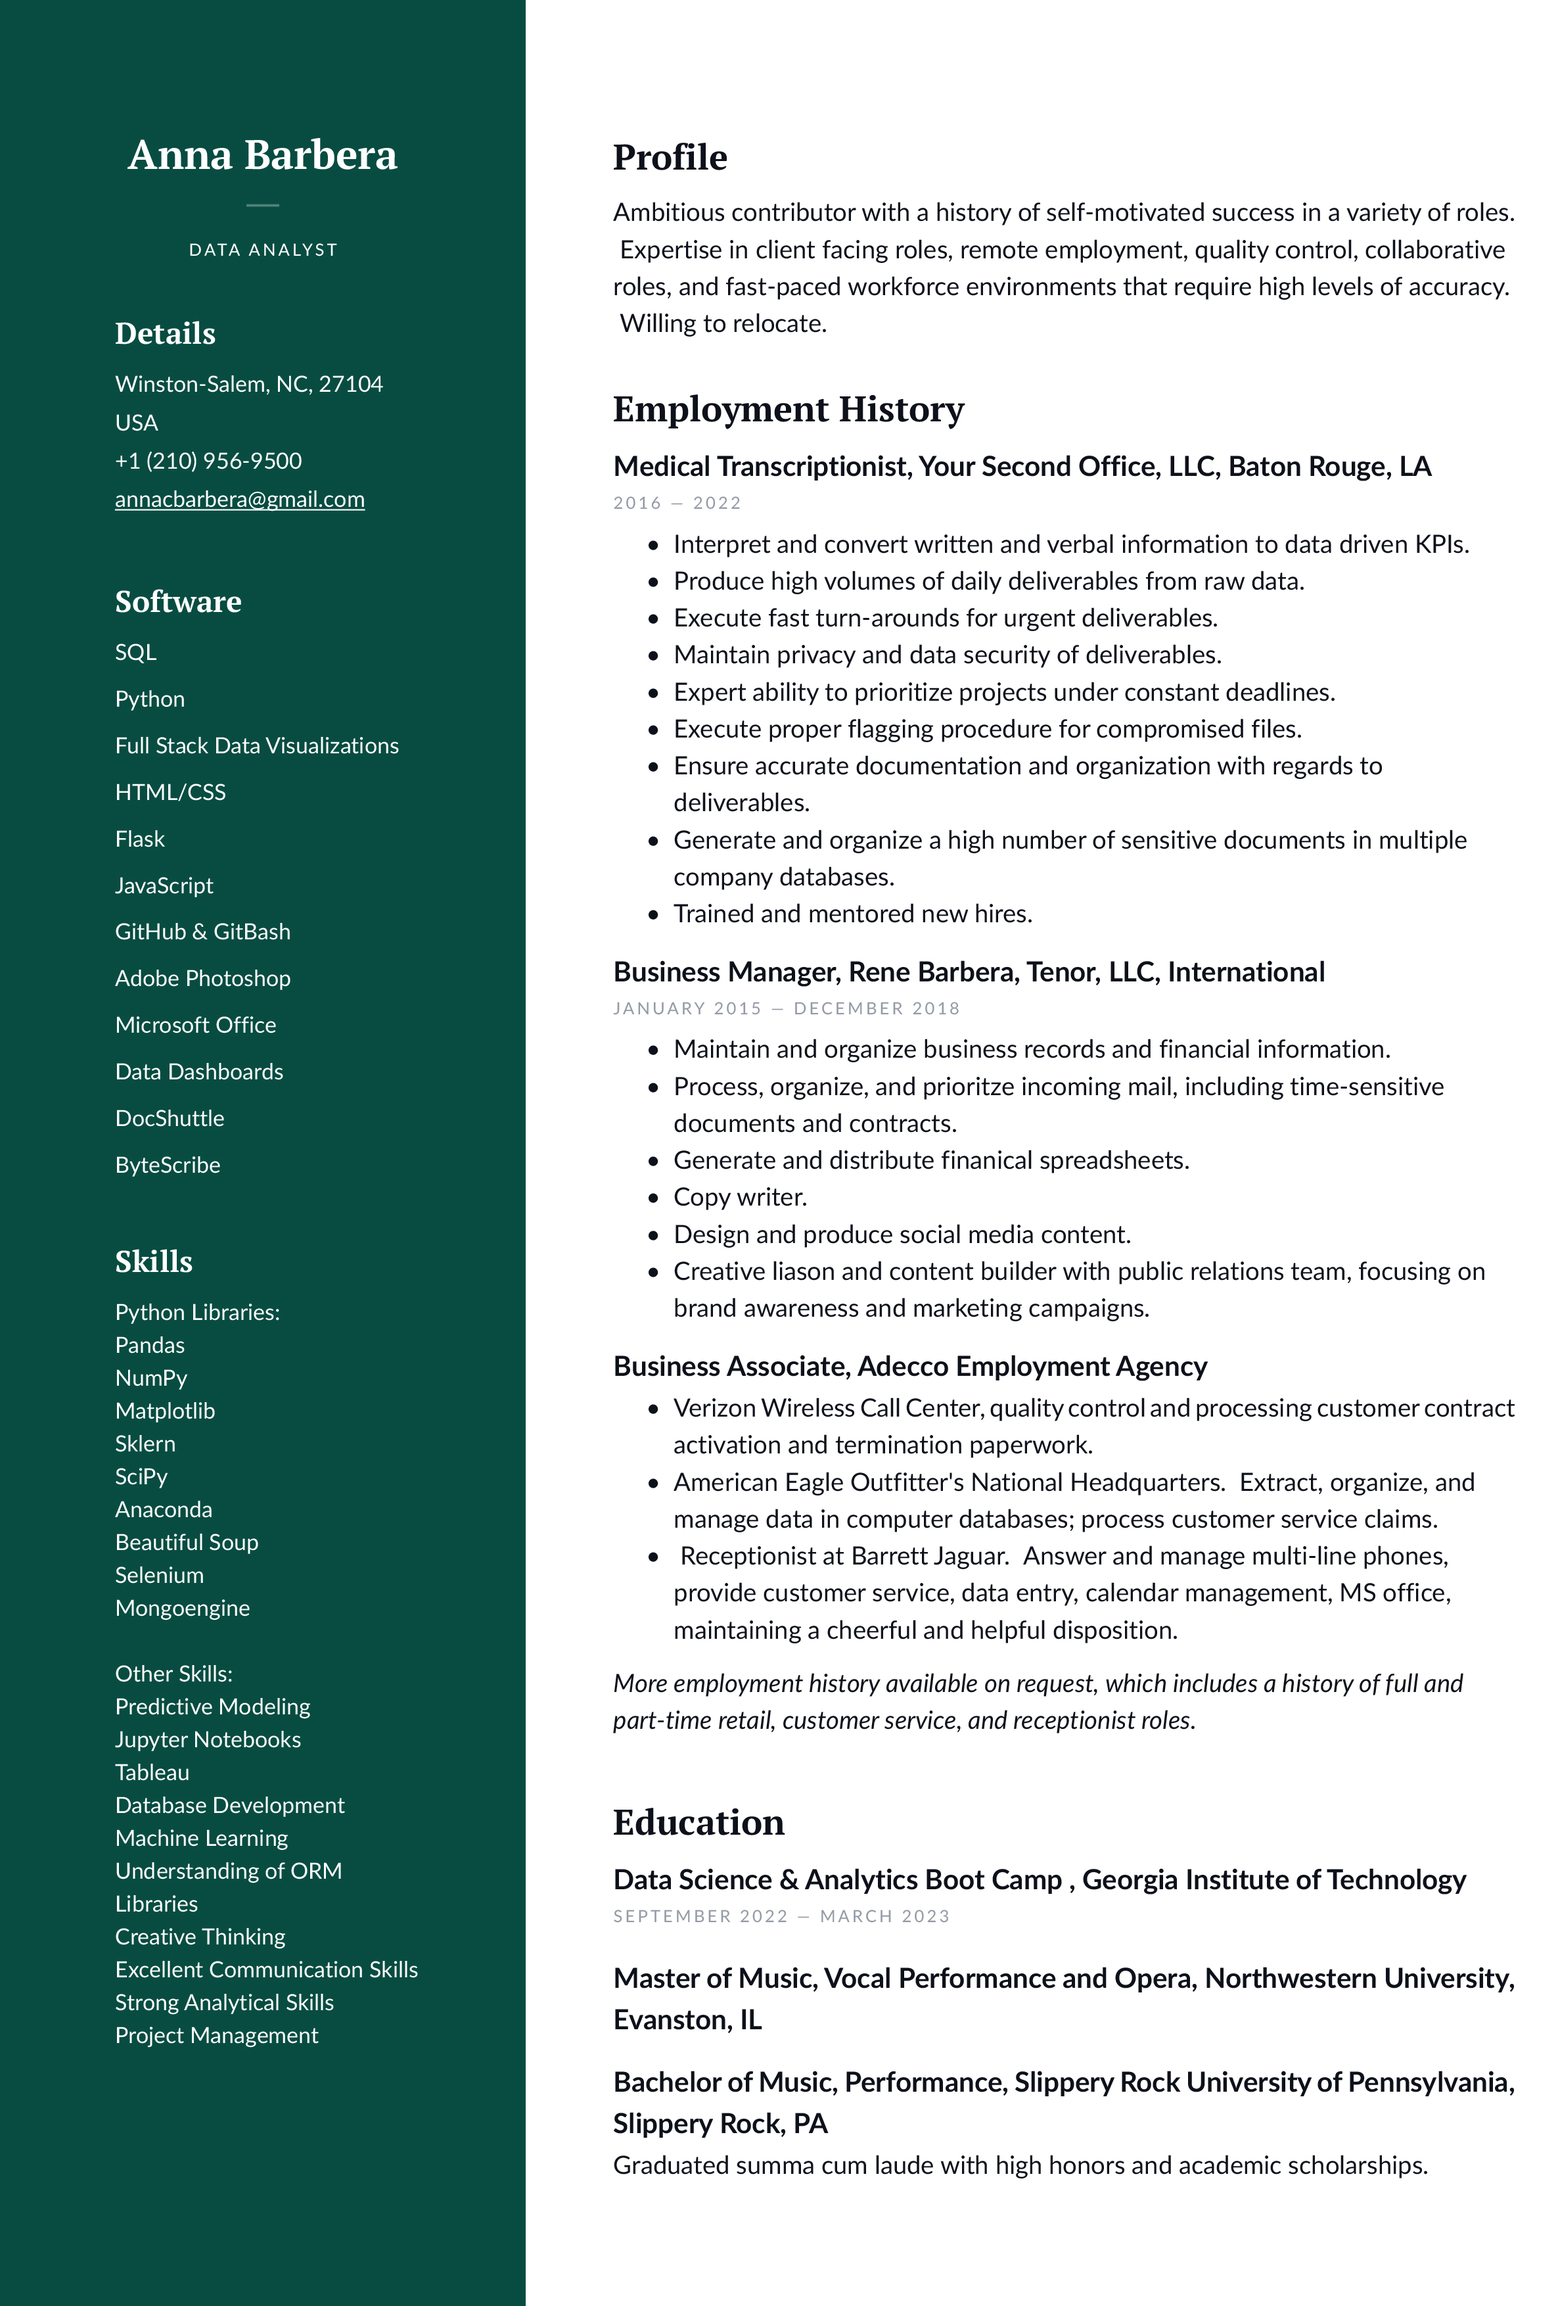
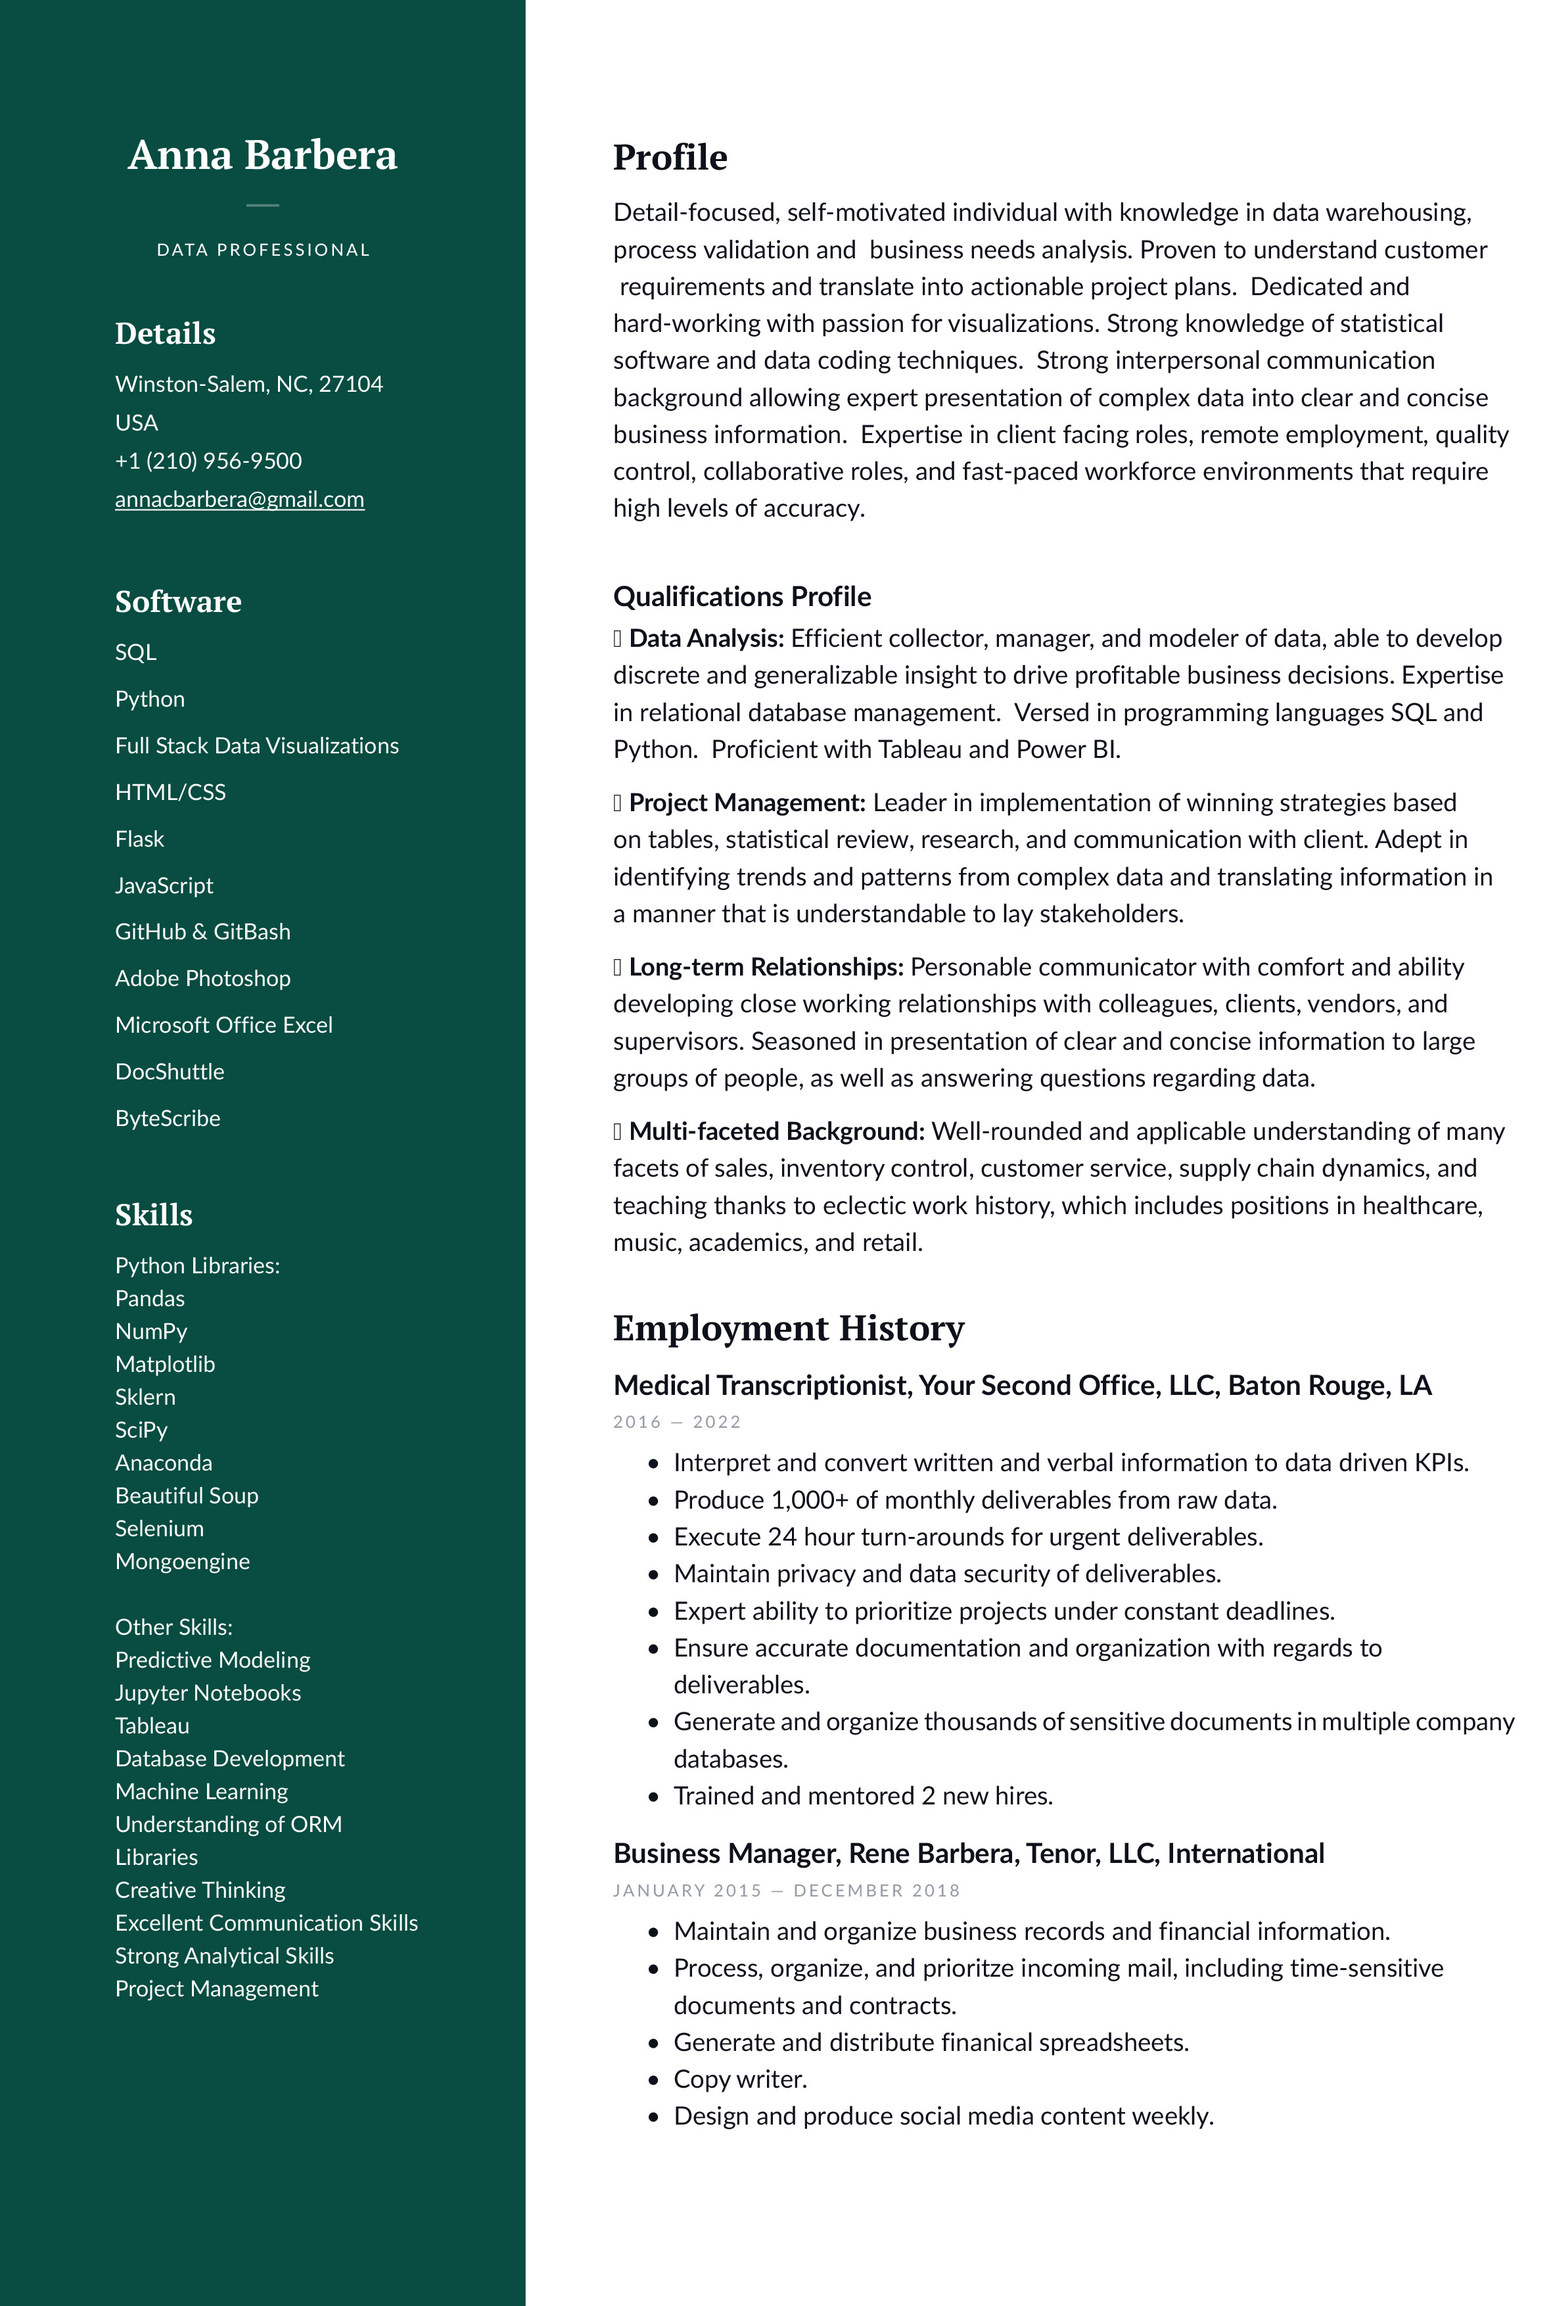
resume revision

diff --git a/index.html b/index.html
@@ -114,7 +114,11 @@
 
 <!-- RESUME -->
 <div id="resume" class="card col-10 center p-3">
-  <img src="A.Barbera.jpg" class="card-img-top" alt="resume pdf">
+  <img src="A.Barbera-1.jpg" class="card-img-top" alt="resume pdf">
+  <div class="d-flex bd-highlight">
+    <div class="p-2 w-100 bd-highlight"></div>
+  </div>
+  <img src="A.Barbera-2.jpg" class="card-img-top" alt="resume pdf">
   <div class="card-body noHover">
     <p class="card-text">References available upon request.</p>
   </div>
